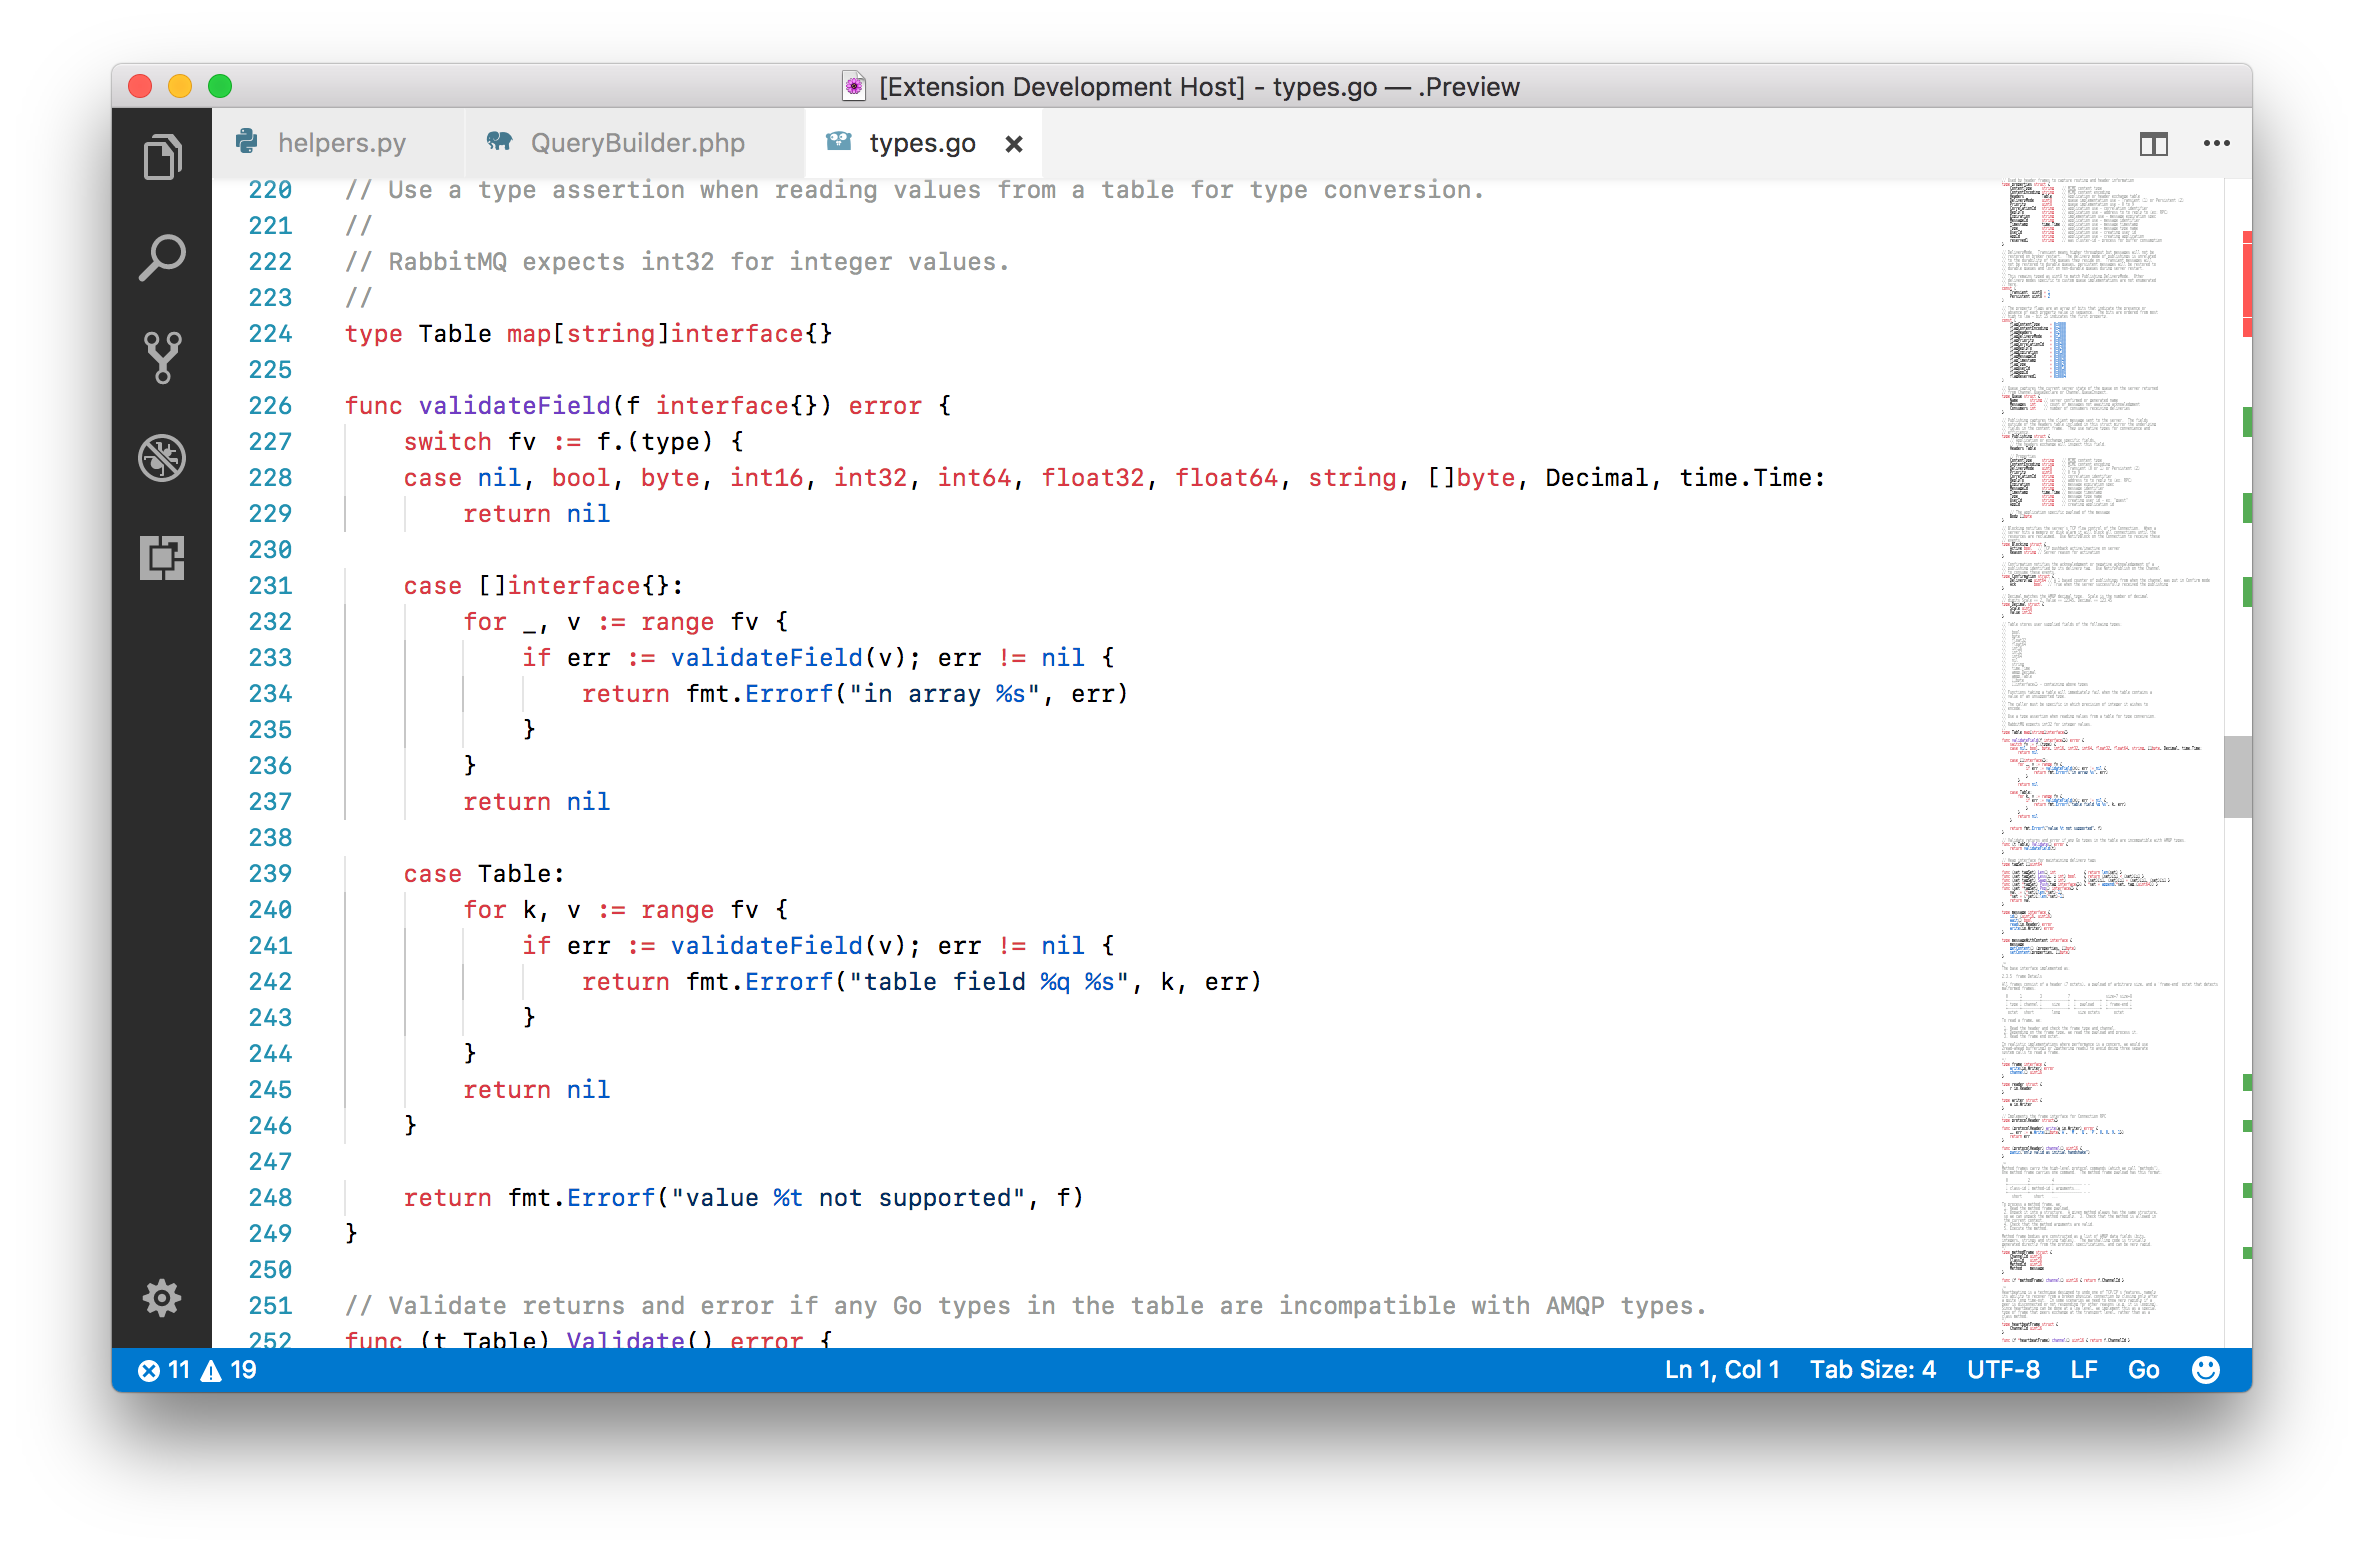
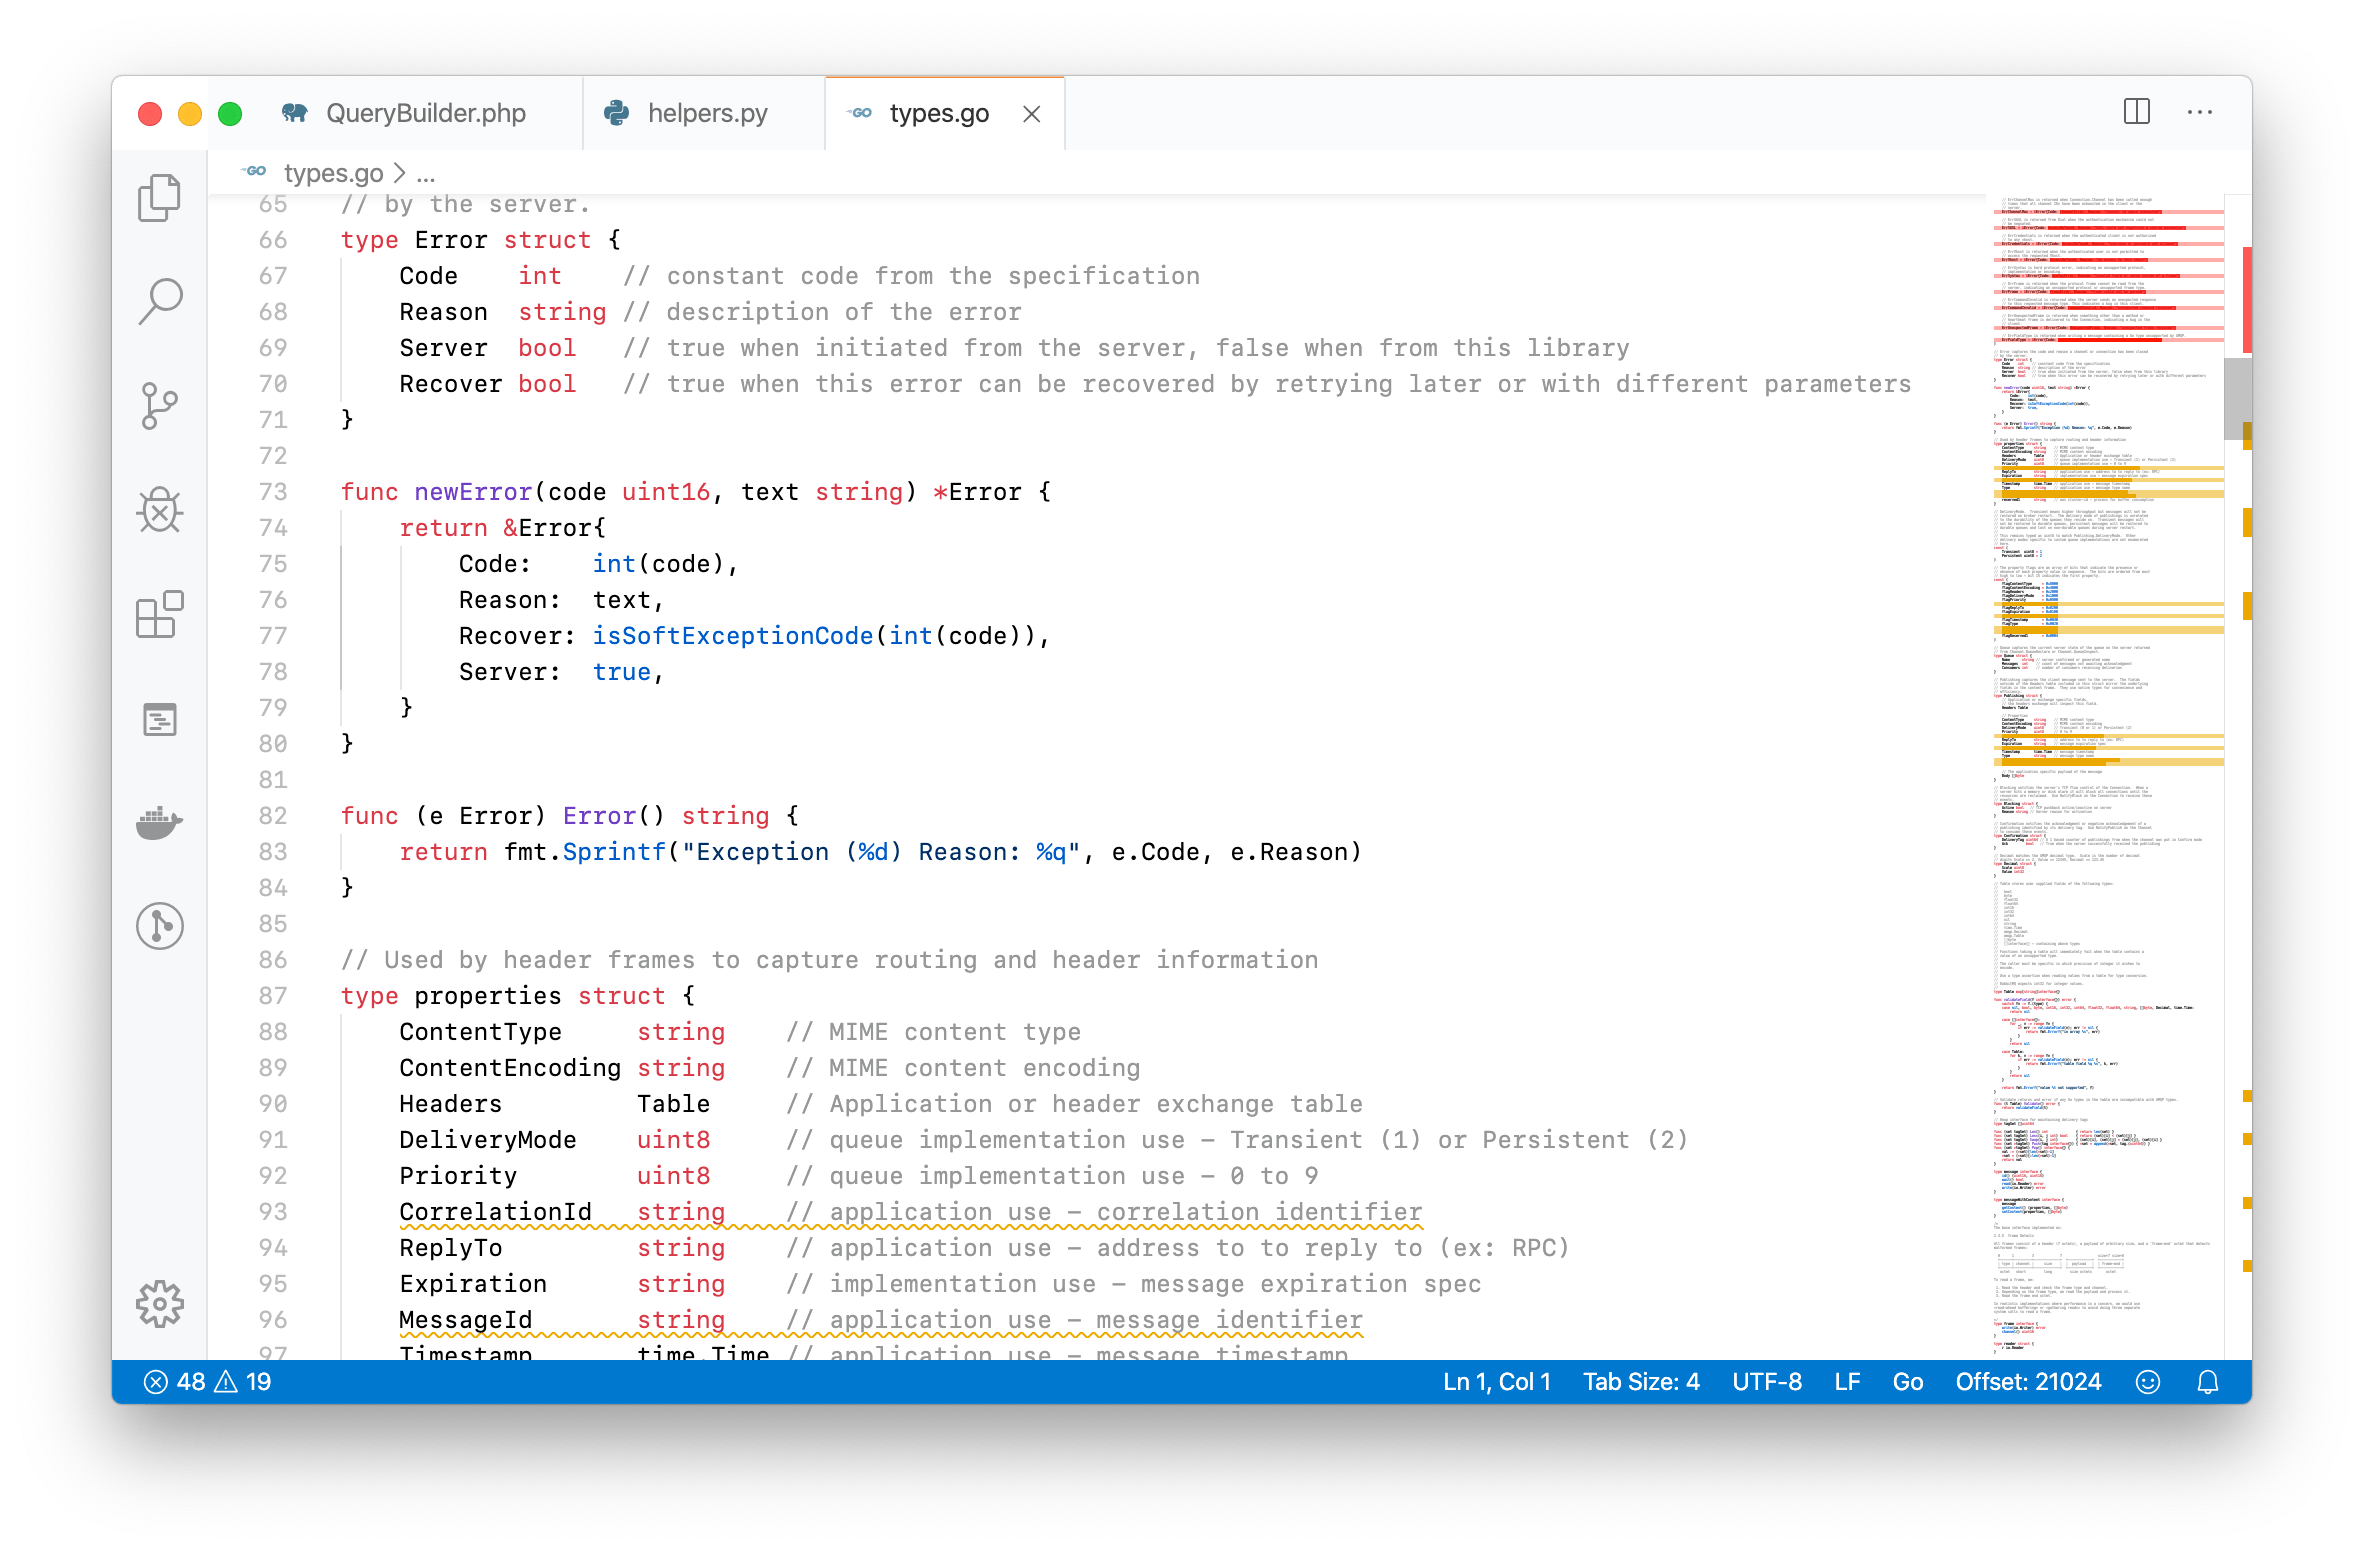
Update to version 1.2.2

Changed region(s): [[0.0309, 0.0309, 0.9573, 0.9278], [0.4941, 0.5258, 0.5558, 0.5567], [0.6485, 0.7113, 0.6794, 0.7423]]

diff --git a/CHANGELOG.md b/CHANGELOG.md
@@ -1,5 +1,9 @@
 # Change Log
 
+## [1.2.2] - 2019-12-16
+
+- Updates screenshots
+
 ## [1.2.1] - 2019-12-16
 
 - Fixes a line highlight color to match JSON theme settings
